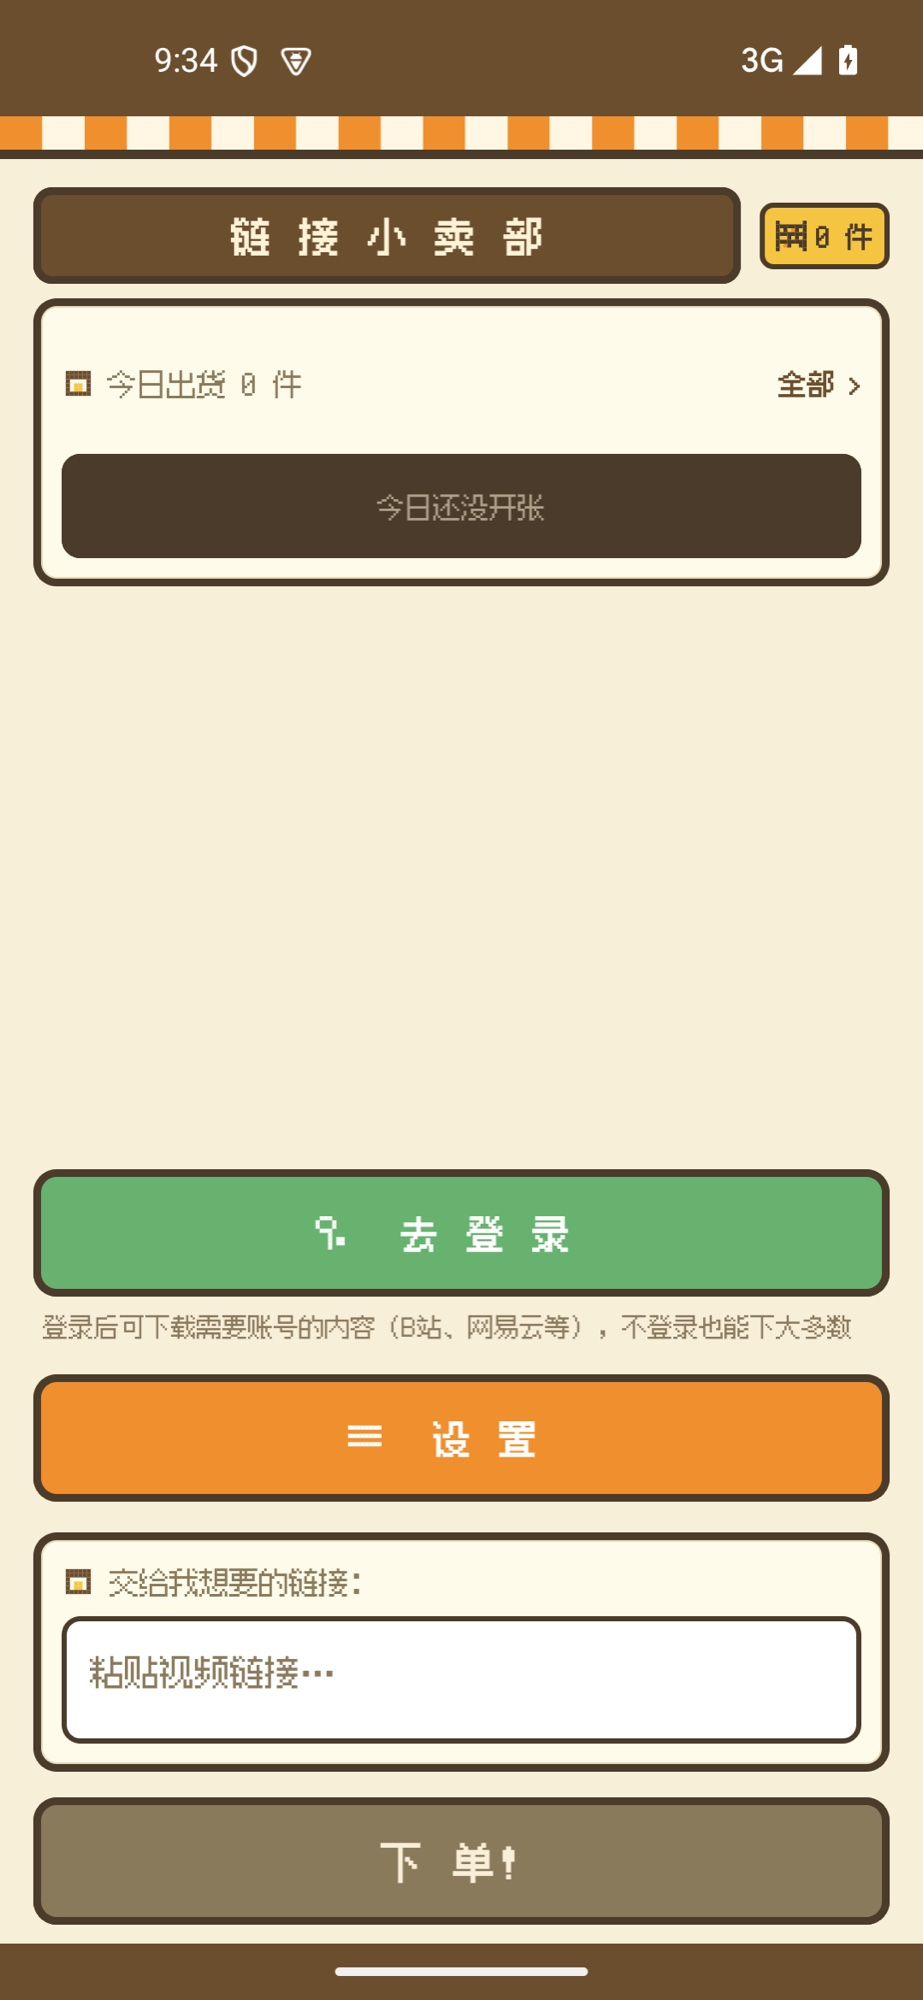
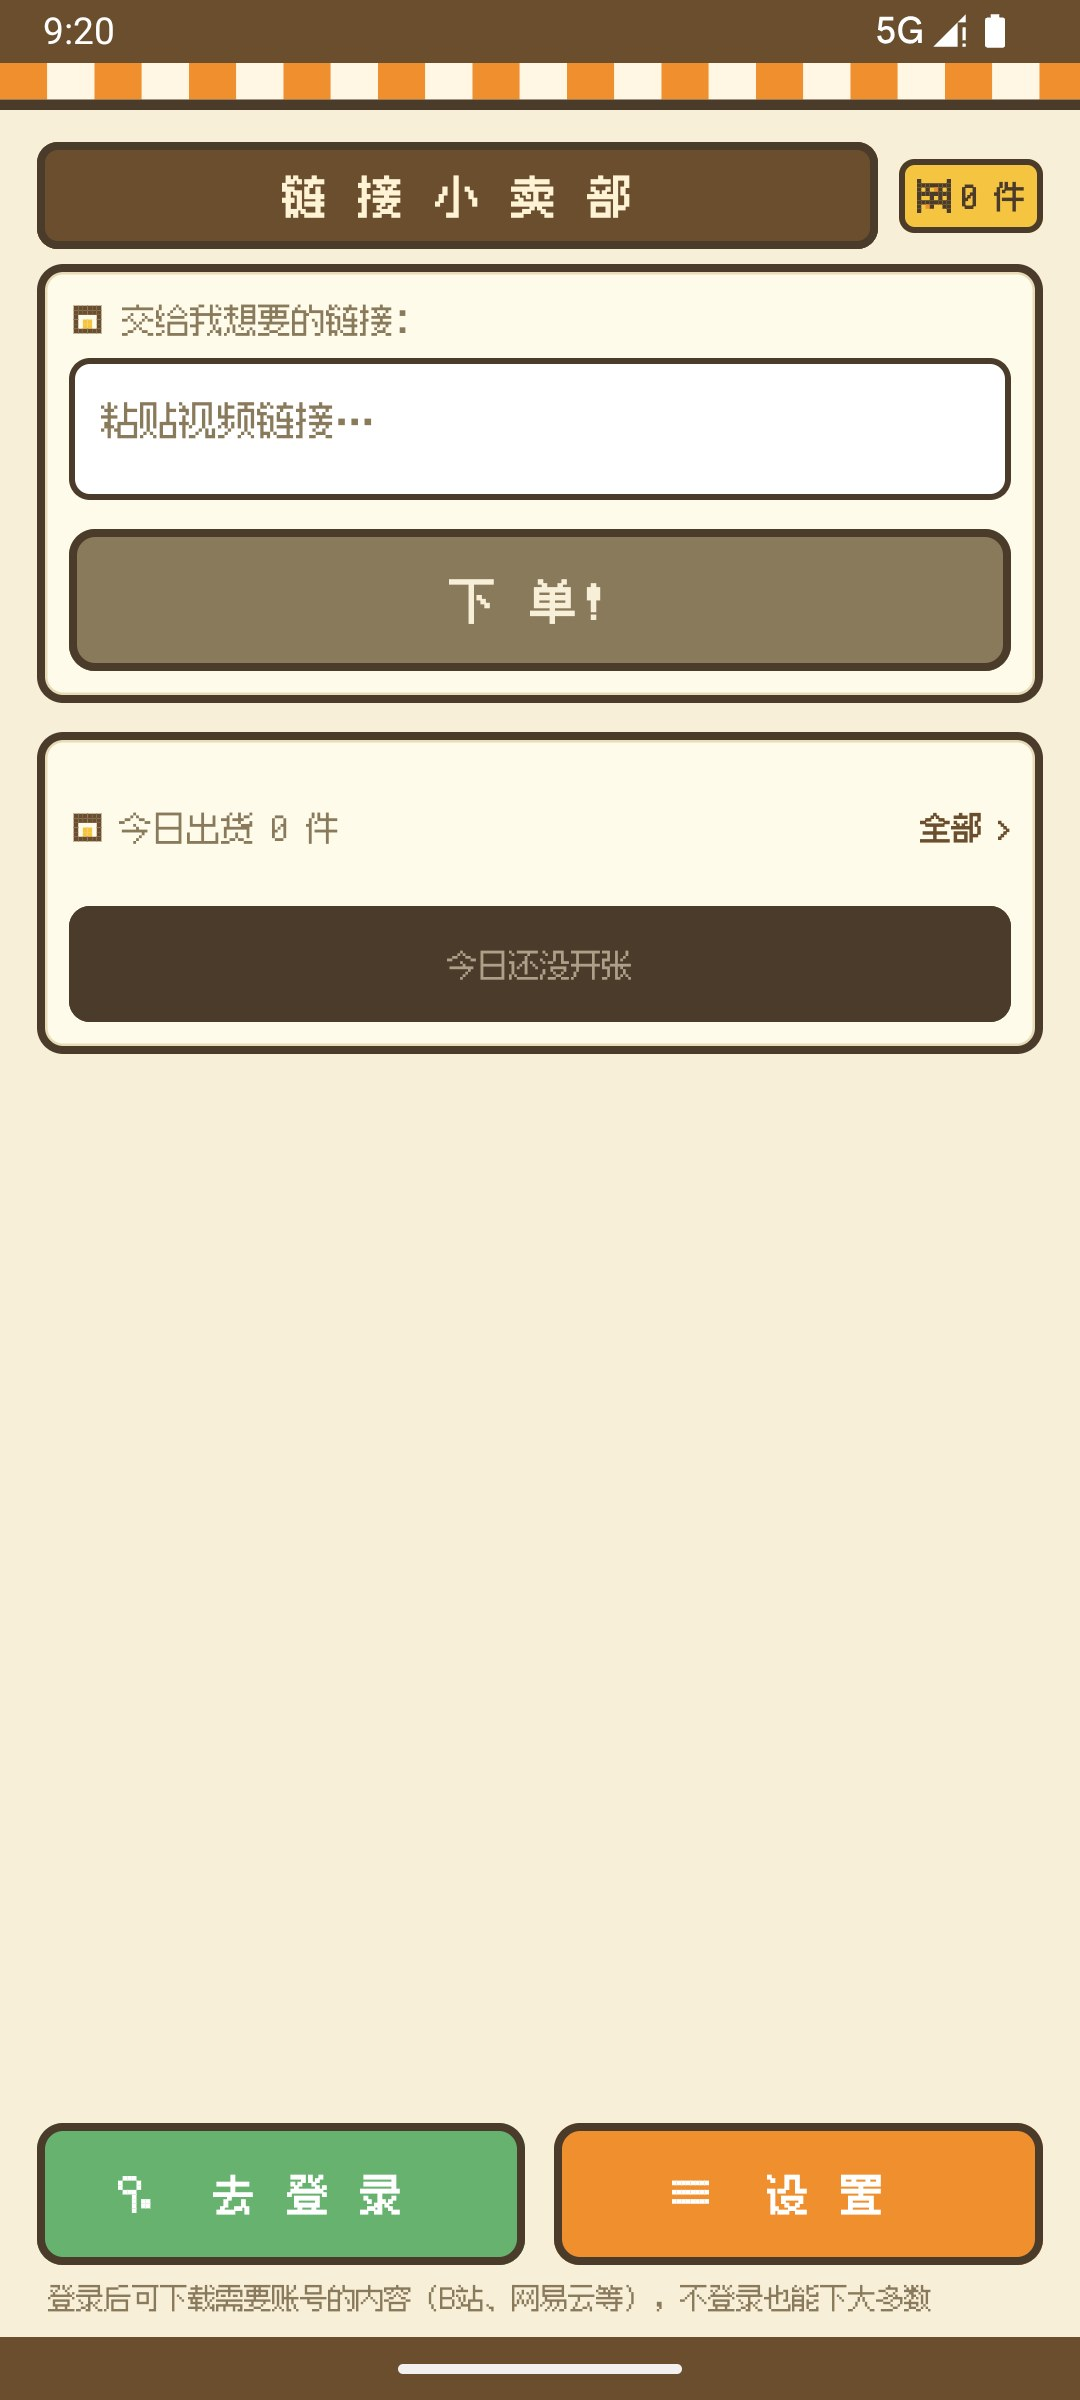
feat: v1.0.0.15——主页改版：链接输入框与「下单」按钮移至屏幕顶部，打开应用直接贴链接下单；「去登录」「设置」收纳为底部并排按钮；README 主界面截图随新版重拍

diff --git a/app/src/androidTest/java/top/linkdown/android/ui/ScreenCaptureTest.kt b/app/src/androidTest/java/top/linkdown/android/ui/ScreenCaptureTest.kt
@@ -1,0 +1,137 @@
+package top.linkdown.android.ui
+
+import android.graphics.Bitmap
+import android.os.SystemClock
+import android.view.accessibility.AccessibilityNodeInfo
+import androidx.test.platform.app.InstrumentationRegistry
+import org.junit.Test
+import java.io.ByteArrayOutputStream
+import java.net.Socket
+
+/**
+ * 主页截图工具（无需 adb，由测试自行导出）：冷启动拉起真实 MainActivity → 亮屏/去锁屏 →
+ * 自动清掉首启叠加弹窗（App 用户协议「同意」/通知权限「不允许」/系统 ANR「Wait」）→
+ * UiAutomation 全屏截图 → PNG 原始字节经模拟器 NAT（10.0.2.2=宿主回环）推给宿主侧
+ * `nc -l 9876 > screenshots/xxx.png` 监听。宿主没开监听时自动跳过（不拖垮常规测试跑）。
+ * 用法：
+ *   nc -l 9876 > screenshots/main.png   # 宿主先起监听
+ *   ./gradlew connectedDebugAndroidTest -Pandroid.testInstrumentationRunnerArguments.class=top.linkdown.android.ui.ScreenCaptureTest
+ */
+class ScreenCaptureTest {
+    /** 一轮清掉所有窗口里的全部命中（ANR/权限弹窗不在活动窗口树里也能处理）：
+     * 外部包弹窗（权限/ANR 屏蔽无障碍点击防自动授权）用 shell 原始触摸注入节点中心；
+     * 本 App 的 Compose 弹窗用 ACTION_CLICK。返回本轮是否处理过任何目标。 */
+    private fun dismissOverlayOnce(): Boolean {
+        val instrumentation = InstrumentationRegistry.getInstrumentation()
+        val ui = instrumentation.uiAutomation
+        val selfPkg = instrumentation.targetContext.packageName
+        // 两边统一归一化（去排版撇号/空格）后再比对
+        val targets = setOf("同意", "Don'tallow", "不允许", "Wait", "等待", "暂不")
+        val roots = runCatching {
+            // 顶层窗口优先（权限弹窗盖在 EULA 上时应先被处理）
+            ui.windows.sortedByDescending { it.layer }.mapNotNull { it.root }
+        }.getOrDefault(emptyList())
+        var acted = false
+        for (root in roots) {
+            val isSelfRoot = root.packageName == selfPkg
+            val queue = ArrayDeque<AccessibilityNodeInfo>().also { it.add(root) }
+            while (queue.isNotEmpty()) {
+                val n = runCatching { queue.removeFirst() }.getOrNull() ?: continue
+                val label = runCatching {
+                    (n.text?.toString() ?: "").replace("\u2019", "'").replace(" ", "").trim()
+                }.getOrDefault("")
+                if (label in targets) {
+                    if (isSelfRoot) {
+                        var node: AccessibilityNodeInfo? = n
+                        var hops = 0
+                        while (node != null && hops < 4) {
+                            val ok = runCatching { node.performAction(AccessibilityNodeInfo.ACTION_CLICK) }.getOrDefault(false) == true
+                            if (ok) {
+                                acted = true
+                                break
+                            }
+                            node = runCatching { node.parent }.getOrNull()
+                            hops++
+                        }
+                    } else {
+                        val r = android.graphics.Rect()
+                        runCatching { n.getBoundsInScreen(r) }
+                        if (r.width() > 0) {
+                            ui.executeShellCommand("input tap ${r.centerX()} ${r.centerY()}")
+                            acted = true
+                        }
+                    }
+                }
+                runCatching {
+                    for (i in 0 until n.childCount) n.getChild(i)?.let { queue.add(it) }
+                }
+            }
+        }
+        return acted
+    }
+
+    /** 看门狗 90s：系统 UI 半死（ANR 风暴）时 waitForIdleSync/wait idle 类调用会无限阻塞，
+     * 绝不让 instrumentation 挂死整条 gradle 流水线。 */
+    @Test(timeout = 90_000L)
+    fun capture_home_screen_to_host_listener() {
+        val instrumentation = InstrumentationRegistry.getInstrumentation()
+        val ui = instrumentation.uiAutomation
+        val context = instrumentation.targetContext
+        val launch = context.packageManager.getLaunchIntentForPackage(context.packageName) ?: return
+        launch.addFlags(android.content.Intent.FLAG_ACTIVITY_NEW_TASK)
+        instrumentation.uiAutomation.executeShellCommand("input keyevent KEYCODE_WAKEUP")
+        instrumentation.uiAutomation.executeShellCommand("wm dismiss-keyguard")
+        context.startActivity(launch)
+        // 宿主导喂的兜底坐标（android layout/截图实测的弹窗按钮中心）——无障碍点击被系统
+        // 弹窗屏蔽或节点时序不稳时的确定性绕法：①权限弹窗 Don't allow ②用户协议 同意
+        // ③电池优化 暂不（弹窗为全屏居中式，坐标在本 AVD 上恒定）
+        val args = InstrumentationRegistry.getArguments()
+        val taps = listOf(
+            args.getString("tapX")?.toIntOrNull() to args.getString("tapY")?.toIntOrNull(),
+            args.getString("tap2X")?.toIntOrNull() to args.getString("tap2Y")?.toIntOrNull(),
+            args.getString("tap3X")?.toIntOrNull() to args.getString("tap3Y")?.toIntOrNull(),
+        ).mapNotNull { (x, y) -> if (x != null && y != null) x to y else null }
+        // 冷启动全新安装首帧+弹窗链可能 5s+ 才出——先等本 App 窗口出现（至多 10s）
+        var appUp = false
+        var waited = 0
+        while (!appUp && waited < 10_000) {
+            SystemClock.sleep(500); waited += 500
+            appUp = runCatching {
+                ui.windows.any { it.root?.packageName == context.packageName }
+            }.getOrDefault(false)
+        }
+        // 首启叠加层清理：用户协议/通知权限/电池优化/系统 ANR；弹窗链比点击慢一拍，
+        // 允许连续 4 轮扑空才算干净
+        if (taps.isNotEmpty()) {
+            SystemClock.sleep(1500)
+            taps.forEachIndexed { i, (x, y) ->
+                ui.executeShellCommand("input tap $x $y")
+                // ①权限 → ②协议（等页面反应）→ ③电池弹窗（协议关闭后 3s+ 才弹）
+                SystemClock.sleep(if (i == 0) 1500L else if (i == 1) 5000L else 1500L)
+            }
+        }
+        var misses = 0
+        var rounds = 0
+        while (rounds < 20 && misses < 4) {
+            if (dismissOverlayOnce()) misses = 0 else misses++
+            SystemClock.sleep(1200)
+            rounds++
+        }
+        // 清弹窗后回前台补一拍（ANR Wait 后 App 可能被遮）；5s 越过「同意」后的页面重建过渡帧
+        context.startActivity(launch)
+        SystemClock.sleep(5000)
+
+        val bitmap = instrumentation.uiAutomation.takeScreenshot() ?: return
+        val bytes = ByteArrayOutputStream().also { bos ->
+            bitmap.compress(Bitmap.CompressFormat.PNG, 100, bos)
+        }.toByteArray()
+        // 宿主无监听时 connect 失败 → 跳过；子线程发送规避主线程网络限制
+        val sender = Thread {
+            runCatching {
+                Socket("10.0.2.2", 9876).use { it.getOutputStream().write(bytes) }
+            }
+        }
+        sender.start()
+        sender.join(8000)
+    }
+}

diff --git a/app/src/main/java/top/linkdown/android/ui/MainScreen.kt b/app/src/main/java/top/linkdown/android/ui/MainScreen.kt
@@ -130,7 +130,26 @@ fun MainScreen(
                 .verticalScroll(rememberScrollState())
                 .padding(start = 14.dp, end = 14.dp, bottom = 8.dp),
         ) {
- // ── 后厨（队列卡，吸底重排后移入中部滚动区首位）──
+ // ── 面板一：交给我想要的链接（输入优先置顶：贴链接=第一动作，开屏第一眼可见；下单贴输入框不断链）──
+            PixelPanel {
+                PixelPanelLabel(Sprites.BOX, "交给我想要的链接：")
+                PixelTextField(state.url, onUrlChange, "粘贴视频链接…", testTag = "urlField")
+                state.clipboardUrl?.let {
+                    Spacer(Modifier.height(8.dp))
+                    PixelChip(
+                        "剪贴板有一条 · 点此带入",
+                        bg = c.success,
+                        contentColor = c.onDarkBrown,
+                        icon = Sprites.CLIPBOARD,
+                        onClick = onImportClipboard,
+                    )
+                }
+                Spacer(Modifier.height(11.dp))
+ // ── 主按钮：下单（输入优先重排：移入输入卡内，紧贴输入框）──
+                PixelButton("下 单！", enabled = isValidInput(state), onClick = { showOrderDialog = true })
+            }
+            Spacer(Modifier.height(11.dp))
+ // ── 后厨（队列卡）──
             val queueCards = queue.items.filter { it.parentGroupId == null && it.state in queueVisibleStates }
             if (queueCards.isNotEmpty()) {
                 QueueArea(queue, queueCards, onCancel, onRetry, onDelete = { pendingDelete = it },
@@ -159,43 +178,33 @@ fun MainScreen(
                 LogArea(state.logLines, listState)
             }
         }
- // ── 底部固定块（不滚动；insets 全由根级 safeDrawingPadding 承担，勿叠加 navigationBars/imePadding）──
+ // ── 底部固定块（不滚动；insets 全由根级 safeDrawingPadding 承担，勿叠加 navigationBars/imePadding）：
+ // 输入置顶后登录/设置降级为次级入口，收纳一行两颗半宽，不再与输入卡抢视线 ──
         Column(Modifier.padding(horizontal = 14.dp)) {
+            Row(horizontalArrangement = Arrangement.spacedBy(11.dp)) {
  // ── 登录入口（用户拍板：只留去登录+一行说明）──
-            PixelButton(
-                "去 登 录",
-                style = PixelButtonStyle.SUCCESS,
-                icon = Sprites.KEY,
-                fontSize = 16.sp,
-                onClick = onOpenLoginHub,
-            )
+                PixelButton(
+                    "去 登 录",
+                    style = PixelButtonStyle.SUCCESS,
+                    icon = Sprites.KEY,
+                    fontSize = 16.sp,
+                    onClick = onOpenLoginHub,
+                    modifier = Modifier.weight(1f),
+                )
+ // ── 设置入口 ──
+                PixelButton(
+                    "设 置",
+                    fontSize = 16.sp,
+                    icon = Sprites.SETTINGS,
+                    onClick = onOpenSettings,
+                    modifier = Modifier.weight(1f),
+                )
+            }
             Text(
                 "登录后可下载需要账号的内容（B站、网易云等），不登录也能下大多数",
                 color = c.textSecondary, fontSize = 11.sp,
                 modifier = Modifier.padding(top = 5.dp, start = 4.dp),
             )
-            Spacer(Modifier.height(13.dp))
- // ── 设置入口 ──
-            PixelButton("设 置", fontSize = 16.sp, icon = Sprites.SETTINGS, onClick = onOpenSettings)
-            Spacer(Modifier.height(13.dp))
- // ── 面板一：交给我想要的链接 ──
-            PixelPanel {
-                PixelPanelLabel(Sprites.BOX, "交给我想要的链接：")
-                PixelTextField(state.url, onUrlChange, "粘贴视频链接…", testTag = "urlField")
-                state.clipboardUrl?.let {
-                    Spacer(Modifier.height(8.dp))
-                    PixelChip(
-                        "剪贴板有一条 · 点此带入",
-                        bg = c.success,
-                        contentColor = c.onDarkBrown,
-                        icon = Sprites.CLIPBOARD,
-                        onClick = onImportClipboard,
-                    )
-                }
-            }
-            Spacer(Modifier.height(11.dp))
- // ── 主按钮：下单（吸底=拇指自然区，spec §4）──
-            PixelButton("下 单！", enabled = isValidInput(state), onClick = { showOrderDialog = true })
             Spacer(Modifier.height(8.dp))
         }
     }

diff --git a/app/src/androidTest/java/top/linkdown/android/ui/MainScreenTest.kt b/app/src/androidTest/java/top/linkdown/android/ui/MainScreenTest.kt
@@ -246,15 +246,18 @@ class MainScreenTest {
         rule.runOnIdle { assertTrue("登录入口应触发 openLoginHub", hubOpened) }
     }
 
-    @Test fun login_entry_sits_between_order_button_and_shipment_panel() {
- // v2 重排回归：中部滚动区(后厨/今日出货/日志)在上，底部固定块=去登录→设置→输入卡→下单
+    @Test fun order_input_first_login_settings_row_bottom() {
+ // 输入优先重排回归：中部滚动区=输入卡(下单贴输入框)→后厨→今日出货→日志；底部固定块=去登录|设置 一行两颗半宽
         set(url = "https://x.com/a/1")
         val orderY = rule.onNodeWithText("下 单！").fetchSemanticsNode().positionInRoot.y
         val loginY = rule.onNodeWithText("去 登 录").fetchSemanticsNode().positionInRoot.y
+        val settingsY = rule.onNodeWithText("设 置").fetchSemanticsNode().positionInRoot.y
         val shipmentY = rule.onNodeWithText("今日出货 0 件").fetchSemanticsNode().positionInRoot.y
         rule.runOnIdle {
-            assertTrue("登录入口应在「下 单！」之上", loginY < orderY)
-            assertTrue("今日出货面板应在登录入口之上", shipmentY < loginY)
+            assertTrue("输入卡（下单）应置顶于今日出货之上", orderY < shipmentY)
+            assertTrue("登录入口应在输入卡（下单）之下（吸底固定块）", loginY > orderY)
+            assertTrue("设置应与登录同一行", kotlin.math.abs(settingsY - loginY) < 40f)
+            assertTrue("今日出货面板应在登录行之上", shipmentY < loginY)
         }
     }
 

diff --git a/app/src/androidTest/java/top/linkdown/android/ui/LogDumpTest.kt b/app/src/androidTest/java/top/linkdown/android/ui/LogDumpTest.kt
@@ -1,0 +1,33 @@
+package top.linkdown.android.ui
+
+import android.os.ParcelFileDescriptor
+import androidx.test.platform.app.InstrumentationRegistry
+import org.junit.Test
+import java.net.Socket
+
+/**
+ * 设备日志导出工具（无需 adb，由测试自行导出）：`logcat -d` 全量快照经模拟器 NAT（10.0.2.2=宿主
+ * 回环）推给宿主侧 `nc -l 9876 > device-log.txt` 监听；宿主无监听时自动跳过。
+ * 用法：
+ *   nc -l 9876 > device-log.txt
+ *   ./gradlew connectedDebugAndroidTest -Pandroid.testInstrumentationRunnerArguments.class=top.linkdown.android.ui.LogDumpTest
+ */
+class LogDumpTest {
+    @Test(timeout = 60_000L)
+    fun dump_logcat_to_host_listener() {
+        val ui = InstrumentationRegistry.getInstrumentation().uiAutomation
+        // 读侧用子线程收，规避主线程网络限制；fd 读完即含全量快照
+        val pfd = ui.executeShellCommand("logcat -d -v time")
+        val sender = Thread {
+            runCatching {
+                Socket("10.0.2.2", 9876).use { out ->
+                    ParcelFileDescriptor.AutoCloseInputStream(pfd).use { input ->
+                        input.copyTo(out.getOutputStream())
+                    }
+                }
+            }
+        }
+        sender.start()
+        sender.join(30_000)
+    }
+}
